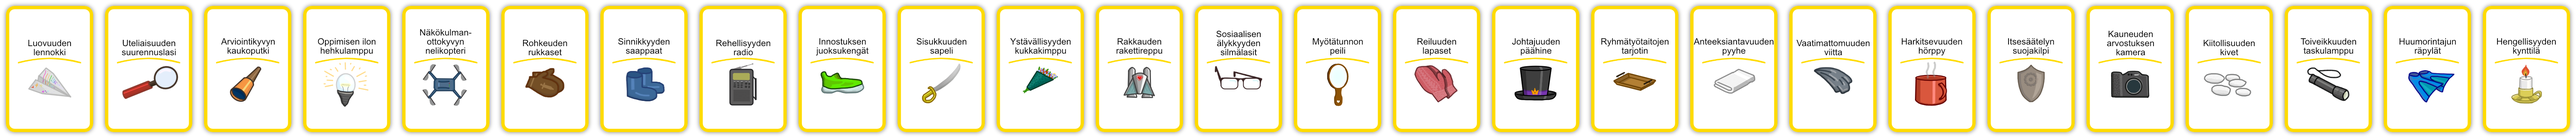
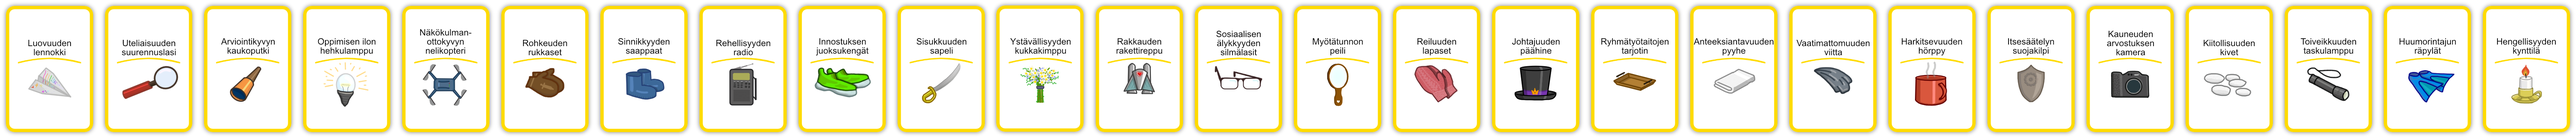
love done

diff --git a/strengthDeck.py b/strengthDeck.py
@@ -32,14 +32,14 @@ class StrengthDeck():
             cardPos = (pos[0]-((i+1)%2)*150-165, pos[1]+((math.floor(i/2)-2)*200)+125)
             newRect = self.overlays[i][0].get_rect(topleft = cardPos)
             self.overlays[i] = (self.overlays[i][0], newRect)
-        self.updateOverlays(pos)
+        self.updateImages(pos)
         self.activateButton.updatePos((pos[0]+const.tileSize*15+280, pos[1]))
 
-
-    def updateOverlays(self, pos):
-        self.background = pygame.Surface((abs(pos[0]),pos[1]*2)).convert_alpha()
+    # Construct the background image of all the cards
+    def updateImages(self, pos):
+        self.background = pygame.Surface((abs(pos[0]),pos[1]*2)).convert_alpha() # Reset background surface/image
         self.background.fill((0, 0, 0, 0)) # Initialize background
-        for i, overlay in enumerate(self.overlays): # Blit every card image and its overlay to background
+        for i, overlay in enumerate(self.overlays): # Blit every card image to background
             self.background.blit(self.cards[i].image, overlay[1])
 
 
@@ -50,6 +50,7 @@ class StrengthDeck():
             if card.ready:
                 if self.activateButton.pressComplete:
                     card.tryActivate(floor)
+                    if card.imageNum == 11: self.updateImages(self.pos)
                 elif card.auraDist:
                     floor.player.changeAura(card.auraDist)
                     cardReady = True
@@ -61,11 +62,9 @@ class StrengthDeck():
             if cooldownN != oldCooldownN:
                 newImg = self.overlaySprite.getImage(cooldownN,250,350,const.scale/2)
                 self.overlays[i] = (newImg, self.overlays[i][1])
-                self.updateOverlays(self.pos)
             elif timerN != oldTimerN:
                 newImg = self.overlaySprite.getImage(timerN,250,350,const.scale/2)
                 self.overlays[i] = (newImg, self.overlays[i][1])
-                self.updateOverlays(self.pos)
         if not cardReady:
             floor.player.changeAura(0)
 
@@ -82,21 +81,21 @@ class StrengthDeck():
                 if overlay[1].collidePoint(event.x*screenSize[0], event.y*screenSize[1]):
                     self.overlays[i] = (self.overlaySprite.getImage(1,250,350,const.scale/2), overlay[1])
                     self.cards[i].press()
-                    self.updateOverlays(self.pos)
+                    if self.cards[i].imageNum == 11: self.updateImages(self.pos)
                 elif not self.activateButton.pressComplete:
                     self.overlays[i] = (self.overlaySprite.getImage(0,250,350,const.scale/2), overlay[1])
                     self.cards[i].unpress()
-                    self.updateOverlays(self.pos)
+                    if self.cards[i].imageNum == 11: self.updateImages(self.pos)
             # Track mouse
             if event.type == pygame.MOUSEBUTTONDOWN and event.button == 1 and not self.cards[i].cooldown:
                 if overlay[1].collidepoint(event.pos):
                     self.overlays[i] = (self.overlaySprite.getImage(1,250,350,const.scale/2), overlay[1])
                     self.cards[i].press()
-                    self.updateOverlays(self.pos)
+                    if self.cards[i].imageNum == 11: self.updateImages(self.pos)
                 elif not self.activateButton.pressComplete:
                     self.overlays[i] = (self.overlaySprite.getImage(0,250,350,const.scale/2), overlay[1])
                     self.cards[i].unpress()
-                    self.updateOverlays(self.pos)
+                    if self.cards[i].imageNum == 11: self.updateImages(self.pos)
 
     # Draw the cards/background and buttons on the screen
     def draw(self, screen):
@@ -107,7 +106,6 @@ class StrengthDeck():
             if self.cards[i].ready and oldShine != round(self.shinePhase):
                 newImg = self.overlaySprite.getImage(round(self.shinePhase) % 4+1,250,350,const.scale/2)
                 self.overlays[i] = (newImg, self.overlays[i][1])
-                self.updateOverlays(self.pos)
             screen.blit(overlay[0], overlay[1])
         for card in self.cards:
             if card.ready:

diff --git a/playerClass.py b/playerClass.py
@@ -20,6 +20,7 @@ class Player(pygame.sprite.Sprite):
         self.swimSpeed = 0     # Player's speed on water
         self.swimDuration = 0  # Duration of the swim speed
         self.npcCollDuration = 0 # Does the player collide with npc's
+        self.flyDuration = 0    # Duration of being able to fly
         playerSpriteSheet = pygame.image.load('images/player_sheet.png').convert() # Load player's spritesheet
         self.playerSprite = spriteSheet.SpriteSheet(playerSpriteSheet)
         self.image = self.playerSprite.getImage(0,36,41,self.scale)
@@ -62,7 +63,8 @@ class Player(pygame.sprite.Sprite):
             self.pos += (velocity*speed)
             self.rect.center = (self.pos.x, self.pos.y)
             room.collideCarts(self, self.facing, (velocity*speed), self)
-            self.resolveCollision(room) # Resolve collisions with walls etc.
+            if not self.flyDuration:
+                self.resolveCollision(room) # Resolve collisions with walls etc.
             self.rect.center = (self.pos.x, self.pos.y)
             self.walking = (self.walking + speed/20.0) % 4
         animationFrame = self.facing*4 + round(self.walking) % 4 # Get the correct image (frame of the animation)
@@ -84,14 +86,18 @@ class Player(pygame.sprite.Sprite):
                 overlap = self.rect.clip(solid)             # Compute overlap rectangle
                 if preferDir == "x" or (overlap.width < overlap.height and preferDir != "y"): # Choose the smaller overlap dimension if there is no preferation
                     if self.rect.centerx > solid.centerx:   # Player is on right side of tile -> push right
-                        self.pos.x = solid.right + math.ceil(self.rect.width/2)
+                        #self.pos.x = (solid.right+self.pos.x + math.ceil(self.rect.width/2))/2
+                        self.pos.x = min(self.pos.x + 5, solid.right + math.ceil(self.rect.width/2))
                     else:
-                        self.pos.x = solid.left - math.ceil(self.rect.width/2)
+                        #self.pos.x = (solid.left+self.pos.x - math.ceil(self.rect.width/2))/2
+                        self.pos.x = max(self.pos.x - 5, solid.left - math.ceil(self.rect.width/2))
                 else:
                     if self.rect.centery > solid.centery:   # Player is below tile -> push down
-                        self.pos.y = solid.bottom + math.ceil(self.rect.height/2)
+                        #self.pos.y = (solid.bottom+self.pos.y + math.ceil(self.rect.height/2))/2
+                        self.pos.y = min(self.pos.y + 5, solid.bottom + math.ceil(self.rect.height/2))
                     else:
-                        self.pos.y = solid.top - math.ceil(self.rect.height/2)
+                        #self.pos.y = (solid.top+self.pos.y - math.ceil(self.rect.height/2))/2
+                        self.pos.y = max(self.pos.y - 5, solid.top - math.ceil(self.rect.height/2))
                 self.rect.center = (self.pos.x, self.pos.y)
                 collided = True
         self.updateSpeech()
@@ -113,6 +119,10 @@ class Player(pygame.sprite.Sprite):
             self.npcCollDuration = max(self.npcCollDuration-1, 0) # update npc passthrough timer
         if self.speechDuration:
             self.speechDuration = max(self.speechDuration-1, 0)
+        if self.flyDuration:
+            self.flyDuration = max(self.flyDuration-1,0)
+        if not self.flyDuration:
+            self.resolveCollision(room)
 
     # Update the pos of the player
     # screenMove: how much the screen size (x,y) has been changed
@@ -189,6 +199,9 @@ class Player(pygame.sprite.Sprite):
 
     def setNpcCollitionTimer(self, time):
         self.npcCollDuration = time
+
+    def fly(self, time):
+        self.flyDuration = time
 
     # Push player to a direction
     def push(self, pushSpeed, dir, velocity, room):

diff --git a/strengthCard.py b/strengthCard.py
@@ -45,6 +45,7 @@ class StrengthCard():
     def reset(self, floor):
         self.timer = 0
         self.cooldown = 0
+        self.unpress()
 
     # Returns True if timer is on, False if not
     def isActive(self):
@@ -208,6 +209,35 @@ class KindnessCard(StrengthCard):
 class LoveCard(StrengthCard):
     def __init__(self):
         super().__init__(11)
+        cardSpriteSheet = pygame.image.load('images/love_jetpack.png').convert() # Load strength spritesheet
+        self.cardSprite = spriteSheet.SpriteSheet(cardSpriteSheet)
+        self.image = self.cardSprite.getImage(0,250,350,const.scale/2)
+        self.battery = 6
+        #self.timerMax = 60
+        self.cooldownMax = 60
+
+    def tryActivate(self, floor):
+        if super().tryActivate(floor):
+            if self.battery < 6:
+                if floor.findLove():
+                    self.battery += 1
+            elif self.battery >= 6:
+                floor.player.fly(self.timerMax)
+                self.battery = 1
+
+    def reset(self, floor):
+        super().reset(floor)
+        self.image = self.cardSprite.getImage(0,250,350,const.scale/2)
+        self.battery = 1
+
+    def press(self):
+        self.ready = True
+        self.image = self.cardSprite.getImage(self.battery,250,350,const.scale/2)
+
+    def unpress(self):
+        self.ready = False
+        self.image = self.cardSprite.getImage(0,250,350,const.scale/2)
+
 
 # Social card Shows the cart-npc pairs
 class SocialCard(StrengthCard):
@@ -246,6 +276,7 @@ class FairnessCard(StrengthCard):
         floor.resetCartOwnerView()
         super().reset(floor)
 
+# Leadership card makes an npc push their own cart
 class LeadershipCard(StrengthCard):
     def __init__(self):
         super().__init__(15)

diff --git a/const.py b/const.py
@@ -126,13 +126,13 @@ phrase = [
      "En näe kärryjä huoneessa.",           # 49: Sosiaalisen älykkyyden aktivointi, jos kärryjä ei ole huoneessa
      "En näe kärryjen omistajia.",          # 50: Sosiaalisen älykkyyden aktivointi, jos ihmisiä ei ole huoneessa
      "En näe ketään ketä peilata.",         # 51: Myötätunnon aktivointi ilman ihmistä edessä
-     "Ei ketään kenelle jutella.",          # 52: Reiluuden/Ryhmätyön/johtajuuden aktivointi ilman ihmistä edessä
+     "Ei ketään kenelle jutella.",          # 52: Reiluuden/Ryhmätyön/johtajuuden/rakkauden aktivointi ilman ihmistä edessä
      "Hänellä ei ole kärryjä.",             # 53: Reiluuden/johtajuuden aktivointi, kun ihmisellä ei ole kärryjä huoneessa
      "Ei ole esineitä millä käydä kauppaa.",# 54: Ryhmätyötaitojen aktivointi, kun ei ole esineitä kerättynä
      "En näe vettä kuivattavaksi.",         # 55: Anteeksiannon aktivointi ilman vettä lähellä
      "Kaikki hyllyt ovat jo täynnä jotakin kiinnostavaa.", # 56: kauneuden arvostuksen aktivointi, kun hyllyt ovat täynnä
      "Hänen kärrynsä ovat jumissa.",        # 57: johtajuuden aktivointi, kun NPC ei pääse kärrynsä luo
-     "",
+     "<3",                                  # 58: Rakkauden onnistunut aktivointi (lataa reppua)
      "",
      "",
      "",

diff --git a/floorClass.py b/floorClass.py
@@ -142,6 +142,14 @@ class Floor():
     def resetCartOwnerView(self):
         self.currentRoom.resetCartOwnerView()
 
+    def findLove(self):
+        if self.currentRoom.talkNpc:
+            self.player.speak(const.phrase[self.lang][58])
+            return True
+        else:
+            self.player.speak(const.phrase[self.lang][52])
+            return False
+
     # Go to next room in the given direction
     # dir: direction of the next room (0=d,1=r,2=u,3=l)
     def nextRoom(self, dir, player):
